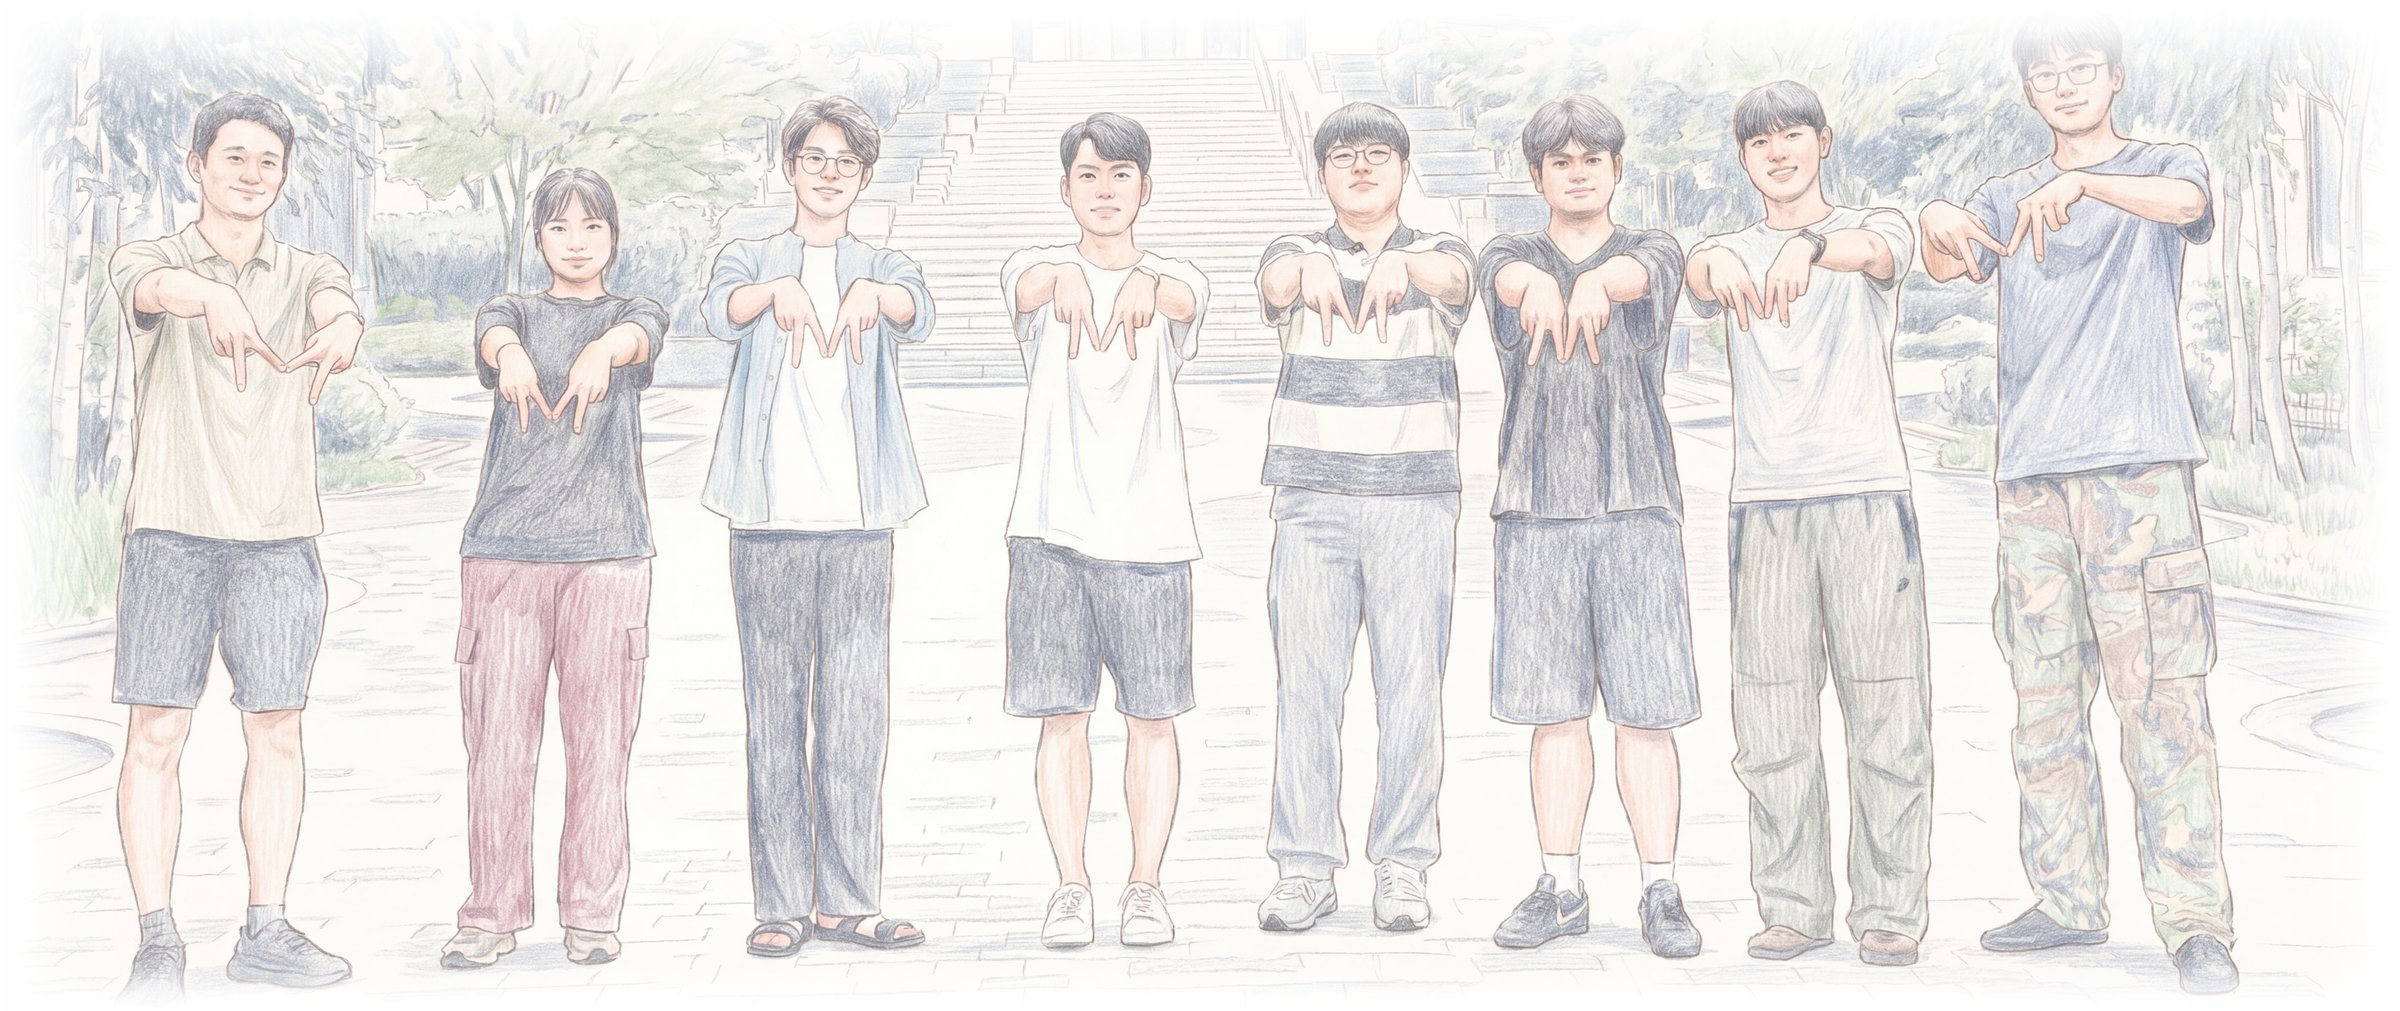
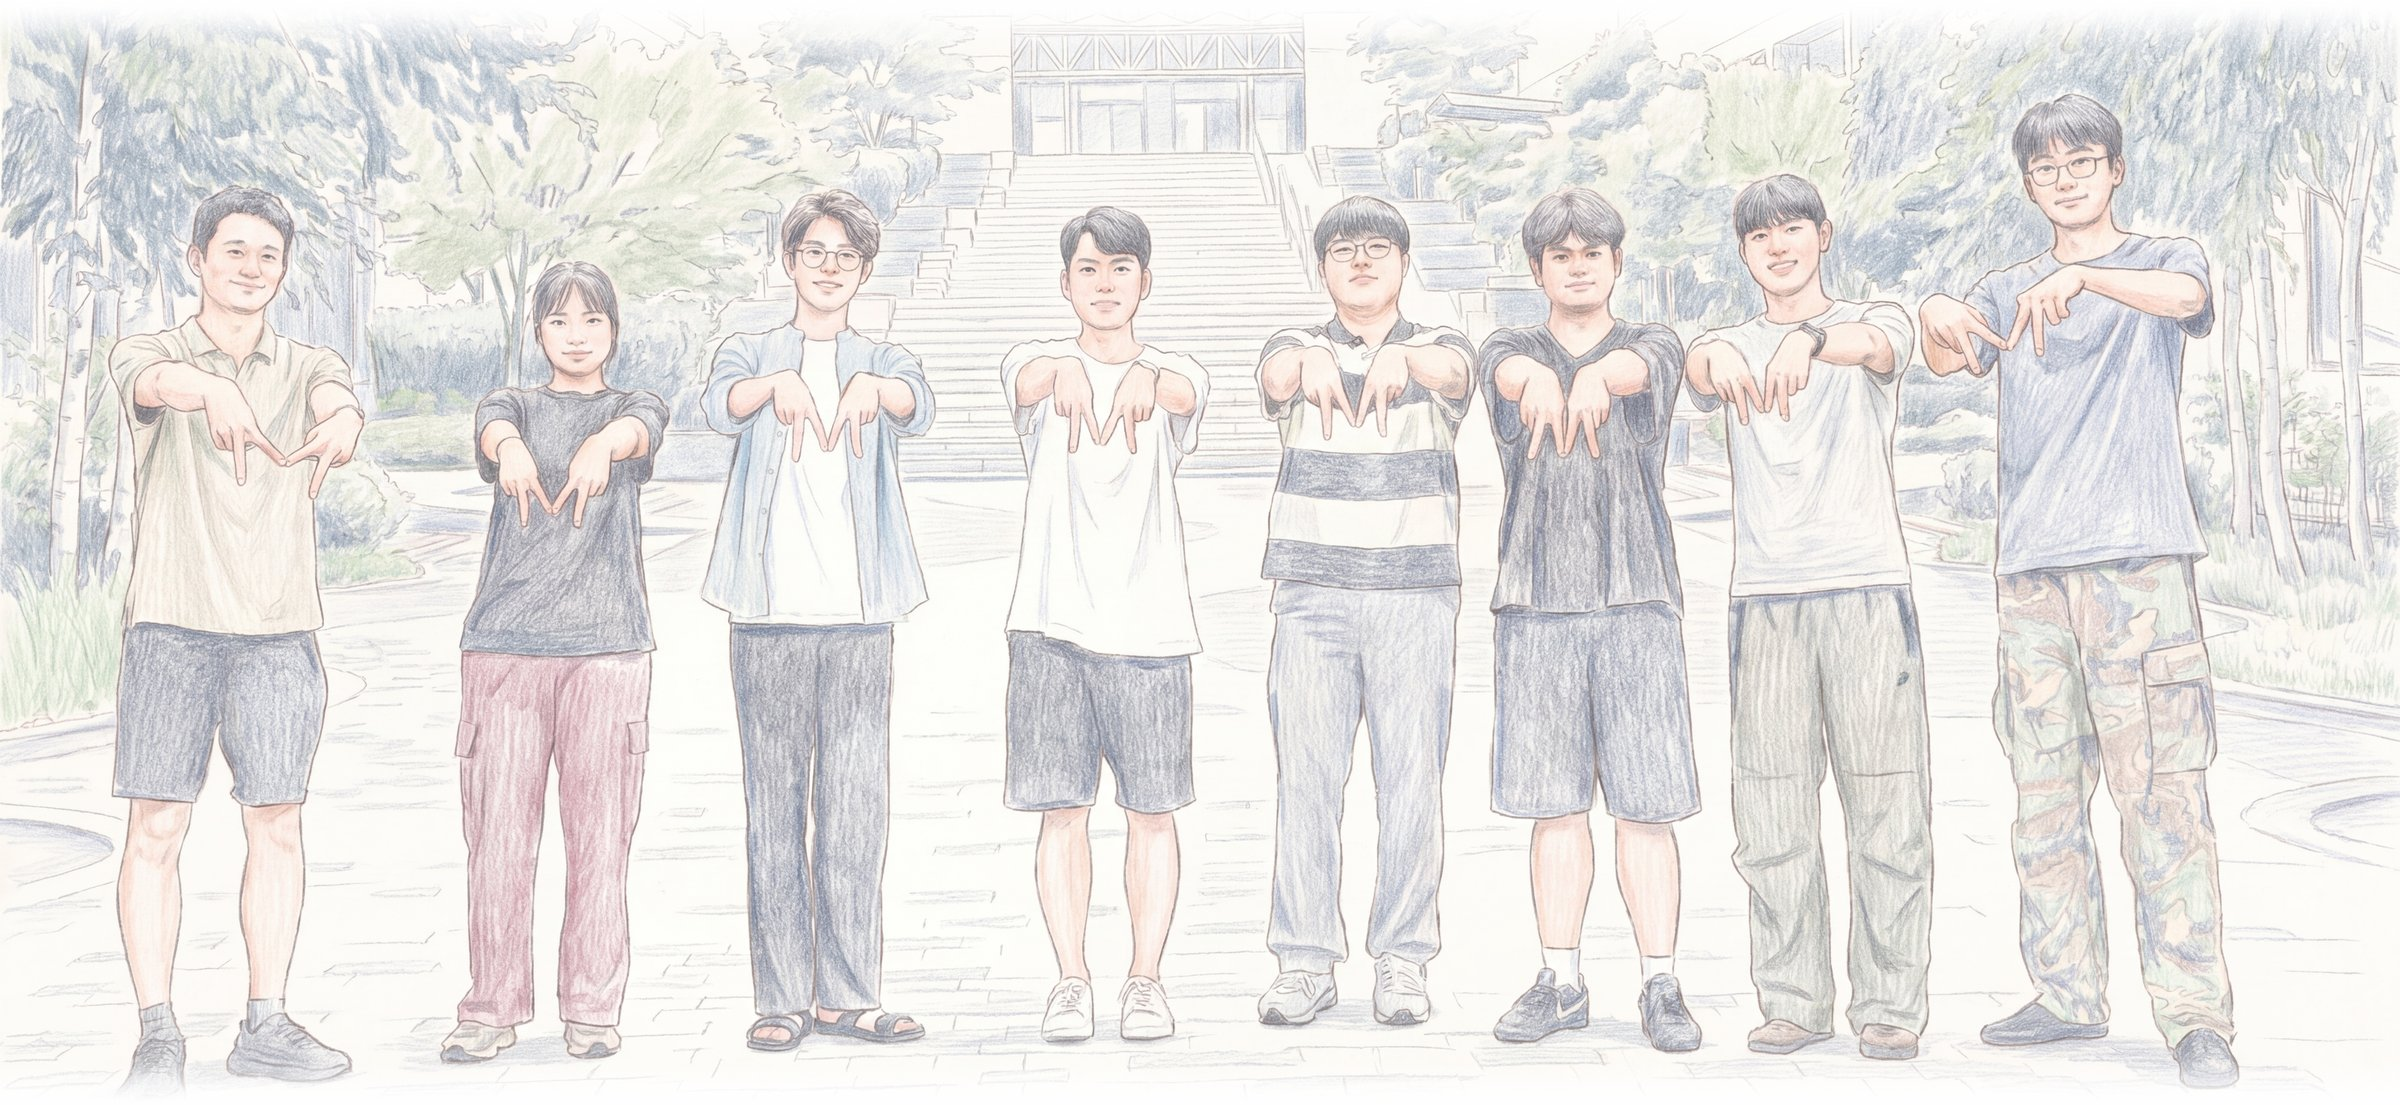
Home: full-width full-figure sketch with headroom for everyone
Recrop the lab sketch so the tallest member's head has room above it,
fade only the top and bottom edges, and span the full grid width instead
of a centered 920px block.

Changed region(s): [[0.0, 0.0307, 1.0, 0.9812], [0.4062, 0.5213, 0.5, 0.7666], [0.0312, 0.8279, 0.1562, 0.9812]]

diff --git a/_themes/wide/includes/theme.css b/_themes/wide/includes/theme.css
@@ -74,7 +74,6 @@
   --leading-group: 1.3;
   --leading-paper: 1.5;
   --tracking-display: -.025em;
-  --photo-width: 920px;  /* Home 단체 스케치의 최대 폭. 전신이 들어가는 비율이라 높이는 그림이 정한다(교수 2026-11-17) */
   --page-start: var(--space-7);
   --subnav-start: var(--space-6);
   --card-padding: var(--space-5);
@@ -329,11 +328,11 @@ a.mentee-name:hover { color: var(--accent); }
 .section-callout a { font-weight: var(--weight-regular); }
 /* a photo band (Home: the lab group photo under the hero, 2026-10-27). The band height is the photo's own size; the photo is pre-cropped to the people and softened to sit with the page tones (2026-11-03) */
 .hero-band + .section-photo { padding-top: 0; }  /* the photo sits right under the hero: only the hero's own 32px bottom padding between them (교수 2026-10-27) */
-.section-photo p { margin: 0; display: flex; justify-content: center; }
+.section-photo p { margin: 0; }
 .list-intro { margin: 0 0 var(--space-4); color: var(--muted); }  /* one line under a group heading that says what the list is (Teaching: regular courses and the AI study, 교수 2026-10-27·2026-11-03) */
 .list-intro a { color: var(--accent); font-weight: var(--weight-regular); }  /* Teaching AI Study 소개의 AI study group 링크는 강조색(교수 2026-11-17) */
 .list-intro a:hover { color: var(--accent); }
-.section-photo img { display: block; width: min(100%, var(--photo-width)); height: auto; }  /* 가장자리가 흰 바탕으로 번지는 스케치라 상자·둥근 모서리 없이 페이지에 그린 그림처럼 둔다(교수 2026-11-17) */
+.section-photo img { display: block; width: 100%; height: auto; }  /* 격자 전체 폭, 전신 스케치. 위·아래만 흰 바탕으로 번지게 구워 상자·둥근 모서리 없이 둔다(교수 2026-11-17) */
 .topic-cards { grid-column: span 8; display: grid; grid-template-columns: minmax(0, 1fr); gap: var(--space-4); }  /* one card per row: topics read down the stage like the rail (2026-10-26) */
 .topic-card { display: flex; flex-direction: column; gap: var(--space-2); padding: var(--card-padding); background: var(--surface); border-radius: var(--radius-2); }
 .topic-card h3 { margin: 0; }

diff --git a/AGENTS.md b/AGENTS.md
@@ -97,7 +97,7 @@ tools/               검사 스크립트(check_changelog.py: 기록·안건·서
 - **구분선은 꼭 필요할 때만 쓴다.** 절과 목록 줄은 간격으로 나누고 선을 긋지 않는다. 지금 남은 선은 메뉴 아래 하나와 꼬리말 위 경계 하나다.
 - **탭이나 버튼으로 내용을 바꾸는 요소는 바꿔도 가로 위치가 움직이지 않게 한다.** 칸과 글자의 가로 위치가 1px 도 움직이면 안 된다. 표는 모든 행을 기준으로 잰 칸 폭을 고정하고(Seminar, `scripts.html` 의 lock), 페이지 길이가 바뀌어도 스크롤바 자리는 `scrollbar-gutter: stable` 로 늘 비워 둔다. 고친 뒤에는 탭마다 요소 좌표를 재서 같은지 확인한다. 세로 길이는 맞추지 않는다. 내용이 짧은 탭을 가장 긴 탭 높이로 늘리면 카드가 빈 채로 길어져 휴대폰에서 어색하다(교수 2026-10-22, 이전 "세로 길이 고정" 규칙을 뺐다).
 - 글보다 그림을 먼저 쓴다. 같은 내용이면 카드, 아이콘, 그림으로 보여 주고 문장은 짧게 줄인다.
-- **Home 단체사진은 고해상도 원본 전체를 한 번에 바꾼 색연필 스케치를 쓴다**(교수 2026-11-17). 현재 파일은 `group-2026-sketch-hires.jpg`다. 원본은 Drive `MOAI Lab/9_gallery/2026-1/0904_MOAI_단체사진_5.jpg`(6960×4640)이고, 사람 중심 16:9 로만 잘라 Gemini 이미지 모델에 통째로 넣는다. 얼굴을 완전히 보존하는 것보다 사이트와 어울리는 예쁜 그림이 우선이되, 각 사람을 알아볼 수 있어야 한다. 얼굴 크롭·붙이기·머리 마스크 합성은 쓰지 않는다. 배치는 히어로 바로 아래 가운데에 전신이 다 들어가는 비율(약 2.4:1)로 두고, 폭은 `--photo-width`(920px)까지다. 그림 가장자리(위·양옆·아래)를 흰 바탕으로 번지게 구워 두고 상자·둥근 모서리 없이 페이지에 그린 그림처럼 둔다. 사람은 번짐 영역에 걸리지 않게 한다. 넓은 띠로 잘라 허벅지에서 끊는 배치는 쓰지 않는다. 생성 스크립트·프롬프트·시안은 로컬 `visual-review-bundle/hires-sketch/`에 있다.
+- **Home 단체사진은 고해상도 원본 전체를 한 번에 바꾼 색연필 스케치를 쓴다**(교수 2026-11-17). 현재 파일은 `group-2026-sketch-hires.jpg`다. 원본은 Drive `MOAI Lab/9_gallery/2026-1/0904_MOAI_단체사진_5.jpg`(6960×4640)이고, 사람 중심 16:9 로만 잘라 Gemini 이미지 모델에 통째로 넣는다. 얼굴을 완전히 보존하는 것보다 사이트와 어울리는 예쁜 그림이 우선이되, 각 사람을 알아볼 수 있어야 한다. 얼굴 크롭·붙이기·머리 마스크 합성은 쓰지 않는다. 배치는 히어로 바로 아래 격자 전체 폭(1200px)에 전신이 다 들어가는 비율(약 2.2:1)로 둔다. 좌우 여백을 두고 가운데에 좁게 놓지 않는다(제목의 왼쪽 격자선과 어긋난다). 위·아래 가장자리만 흰 바탕으로 번지게 구워 두고 상자·둥근 모서리는 쓰지 않는다. 가장 키 큰 사람의 머리 위에도 여백을 두고, 머리가 번짐 영역에 걸리지 않게 한다. 넓은 띠로 잘라 허벅지·정강이에서 끊는 배치는 쓰지 않는다. 1440×900 에서 발이 첫 화면 아래로 넘치는 것은 받아들인다. 생성 스크립트·프롬프트·시안은 로컬 `visual-review-bundle/hires-sketch/`에 있다.
 - **Home 의 News 는 첫 소식(MOAI Lab started)까지 전부 보인다.** `limit` 를 두지 않고, 교수가 따로 말할 때까지 이대로 둔다. News 가 아주 길어지면 그때 "All news" 모양과 함께 다시 정한다(교수 2026-11-03).
 - 랜딩 페이지(Home)가 가장 중요하다. 스크롤 없이 보이는 첫 화면에서 세 부류가 각자 다음에 누를 곳을 찾을 수 있어야 한다.
 - 리뷰 방법: 사람이든 리뷰어 에이전트든 세 부류를 하나씩 맡아 그 사람이 되어 사이트를 훑는다. 부류마다 (1) 30초 안에 찾고 싶은 것을 찾았나 (2) 매력적이지 않거나 헷갈린 곳 (3) 고칠 점 세 개를 적는다. 결과는 바로 반영하지 않고 `discussions/` 안건으로 올린다.

diff --git a/changelog/2026-11-17-home-sketch-hires.md b/changelog/2026-11-17-home-sketch-hires.md
@@ -47,3 +47,17 @@ POSTECH 요구사항: 영향 없음
 - 대비 1.18 보정: 도식보다 그림이 먼저 눈에 들어와 순서가 뒤집힌다.
 
 검증: 위 두 폭에서 렌더 확인(이 맥에 Jekyll 용 Ruby 가 없어 기존 `_site` 사본에 같은 CSS 를 넣어 띄움). push 전 GitHub Actions 의 check_design·format 검사로 다시 확인한다.
+
+## 머리 잘림과 좌우 여백 수정
+교수: 오른쪽 끝 멤버의 얼굴(머리)이 잘렸다. 좌우 여백도 별로다.
+
+원인: 2.37:1 로 자를 때 머리 위 여백을 너무 줄여, 가장 키 큰 오른쪽 끝 사람의 머리가 그림 위 경계와 위쪽 번짐(14%)에 걸렸다. 920px 가운데 배치는 제목이 시작하는 왼쪽 격자선과 어긋나 양옆에 이유 없는 빈칸이 생겼다.
+
+반영:
+- 그림: `sketch-a` 를 위 17%~아래 99.5% 로 다시 잘라(2.17:1, 2400×1105) 모든 머리 위에 여백을 두고, 위 6%·아래 5% 만 흰색으로 번지게 했다. 양옆 번짐은 뺐다.
+- `theme.css`: `--photo-width` 를 지우고 `.section-photo img` 를 격자 전체 폭(`width: 100%; height: auto`)으로 되돌렸다. 가운데 정렬도 뺐다.
+- 1440×900: 첫 화면에서 모든 얼굴이 머리 위 여백과 함께 보이고, 스크롤하면 발까지 이어진다.
+
+기각:
+- 920px 가운데 배치: 좌우 여백이 격자와 어긋난다.
+- 전체 폭에 정강이에서 자른 2.71:1(높이 443px): 첫 화면은 같고 스크롤하면 아래 가장자리가 다리를 끊어 어색하다.

diff --git a/index.md b/index.md
@@ -12,10 +12,10 @@ sections:
       We orchestrate foundation models across vision, language, and physical sensors to drive AI agents, robots, and automated factories.
     image: assets/img/hero.svg
     image_alt: "Vision, language, and sensor inputs flow into MOAI, which drives agents, robots, and manufacturing."
-  # 히어로 아래 랩 단체 스케치(교수 2026-10-27, 스케치·전신·가운데 배치 2026-11-17). 그림은 assets/img/lab/, 폭은 theme.css 의 --photo-width
+  # 히어로 아래 랩 단체 스케치(교수 2026-10-27, 스케치·전신·격자 전체 폭 2026-11-17). 그림은 assets/img/lab/, 배치는 theme.css 의 .section-photo
   - class: section-photo
     body: |
-      ![Colored-pencil sketch of MOAI Lab members making an M with their hands in front of a POSTECH building](assets/img/lab/group-2026-sketch-hires.jpg?v=20261117-soft)
+      ![Colored-pencil sketch of MOAI Lab members making an M with their hands in front of a POSTECH building](assets/img/lab/group-2026-sketch-hires.jpg?v=20261117-full)
   - title: "Our focus in 2026"
     type: focus
   # 실적 문장과 Paper Stella 미니(?mini=1, 별만 천천히 돈다)를 한 어두운 띠로 묶는다. 띠를 누르면 Publications > Map(Paper Stella 페이지, 교수 2026-11-03)
